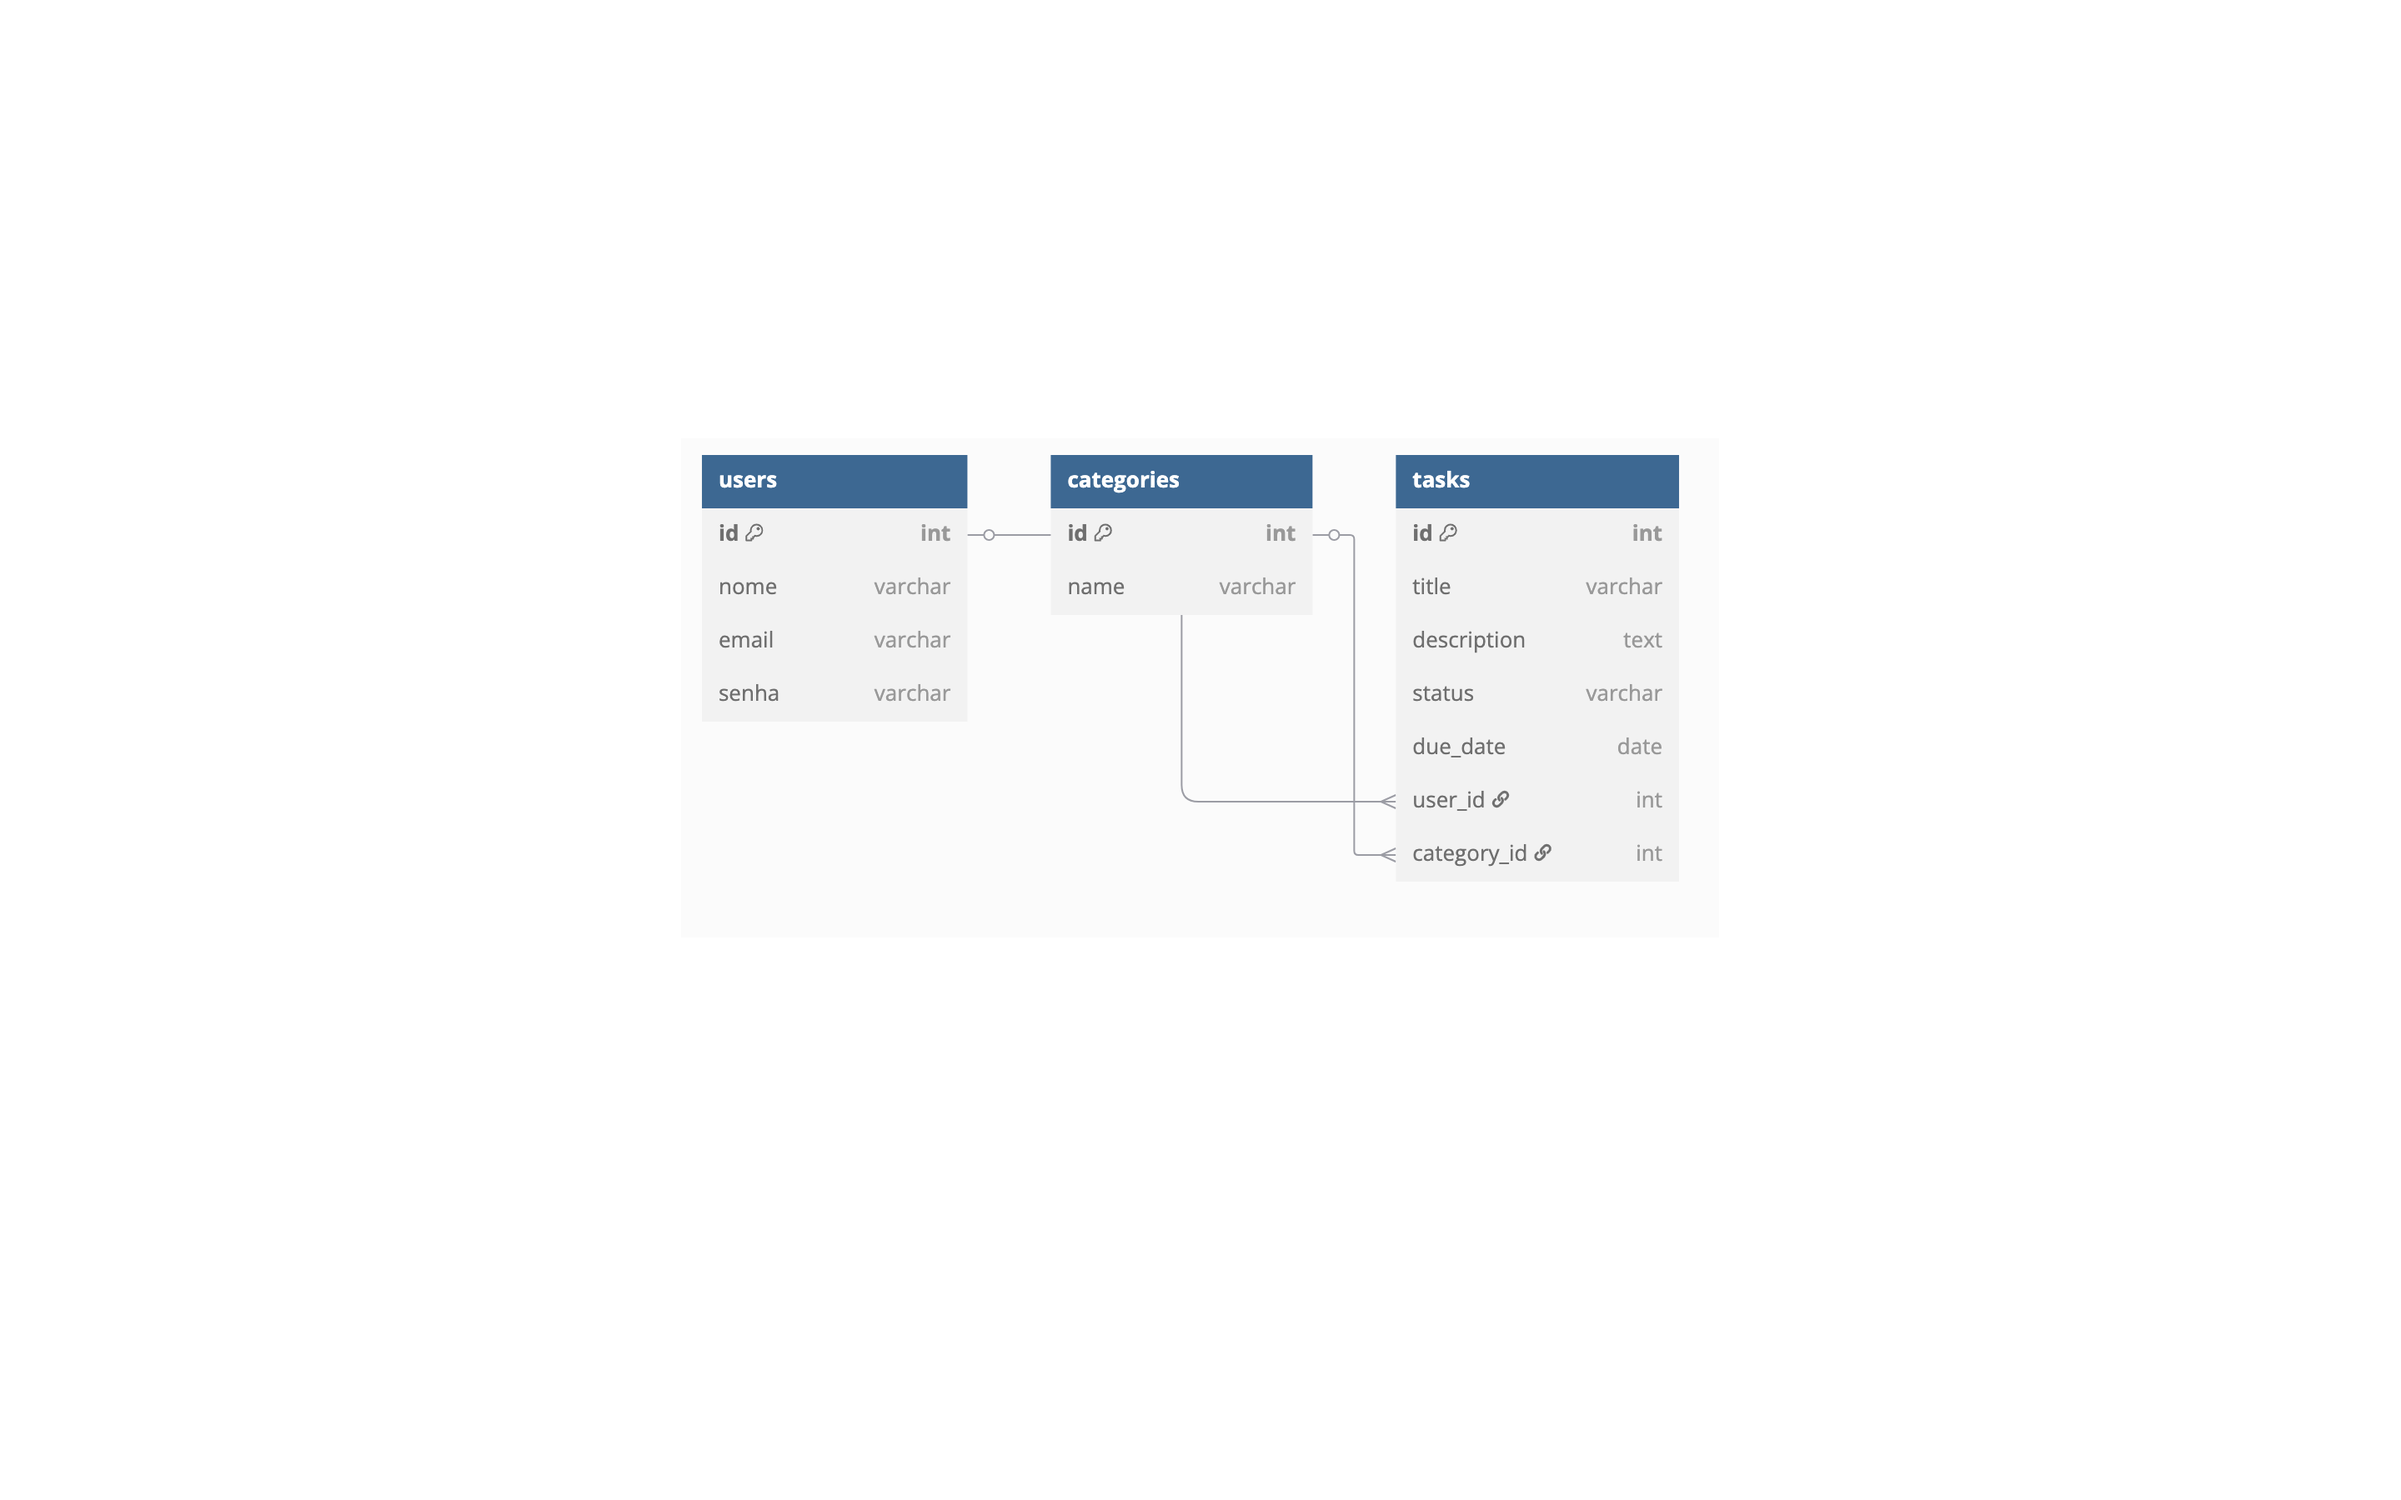
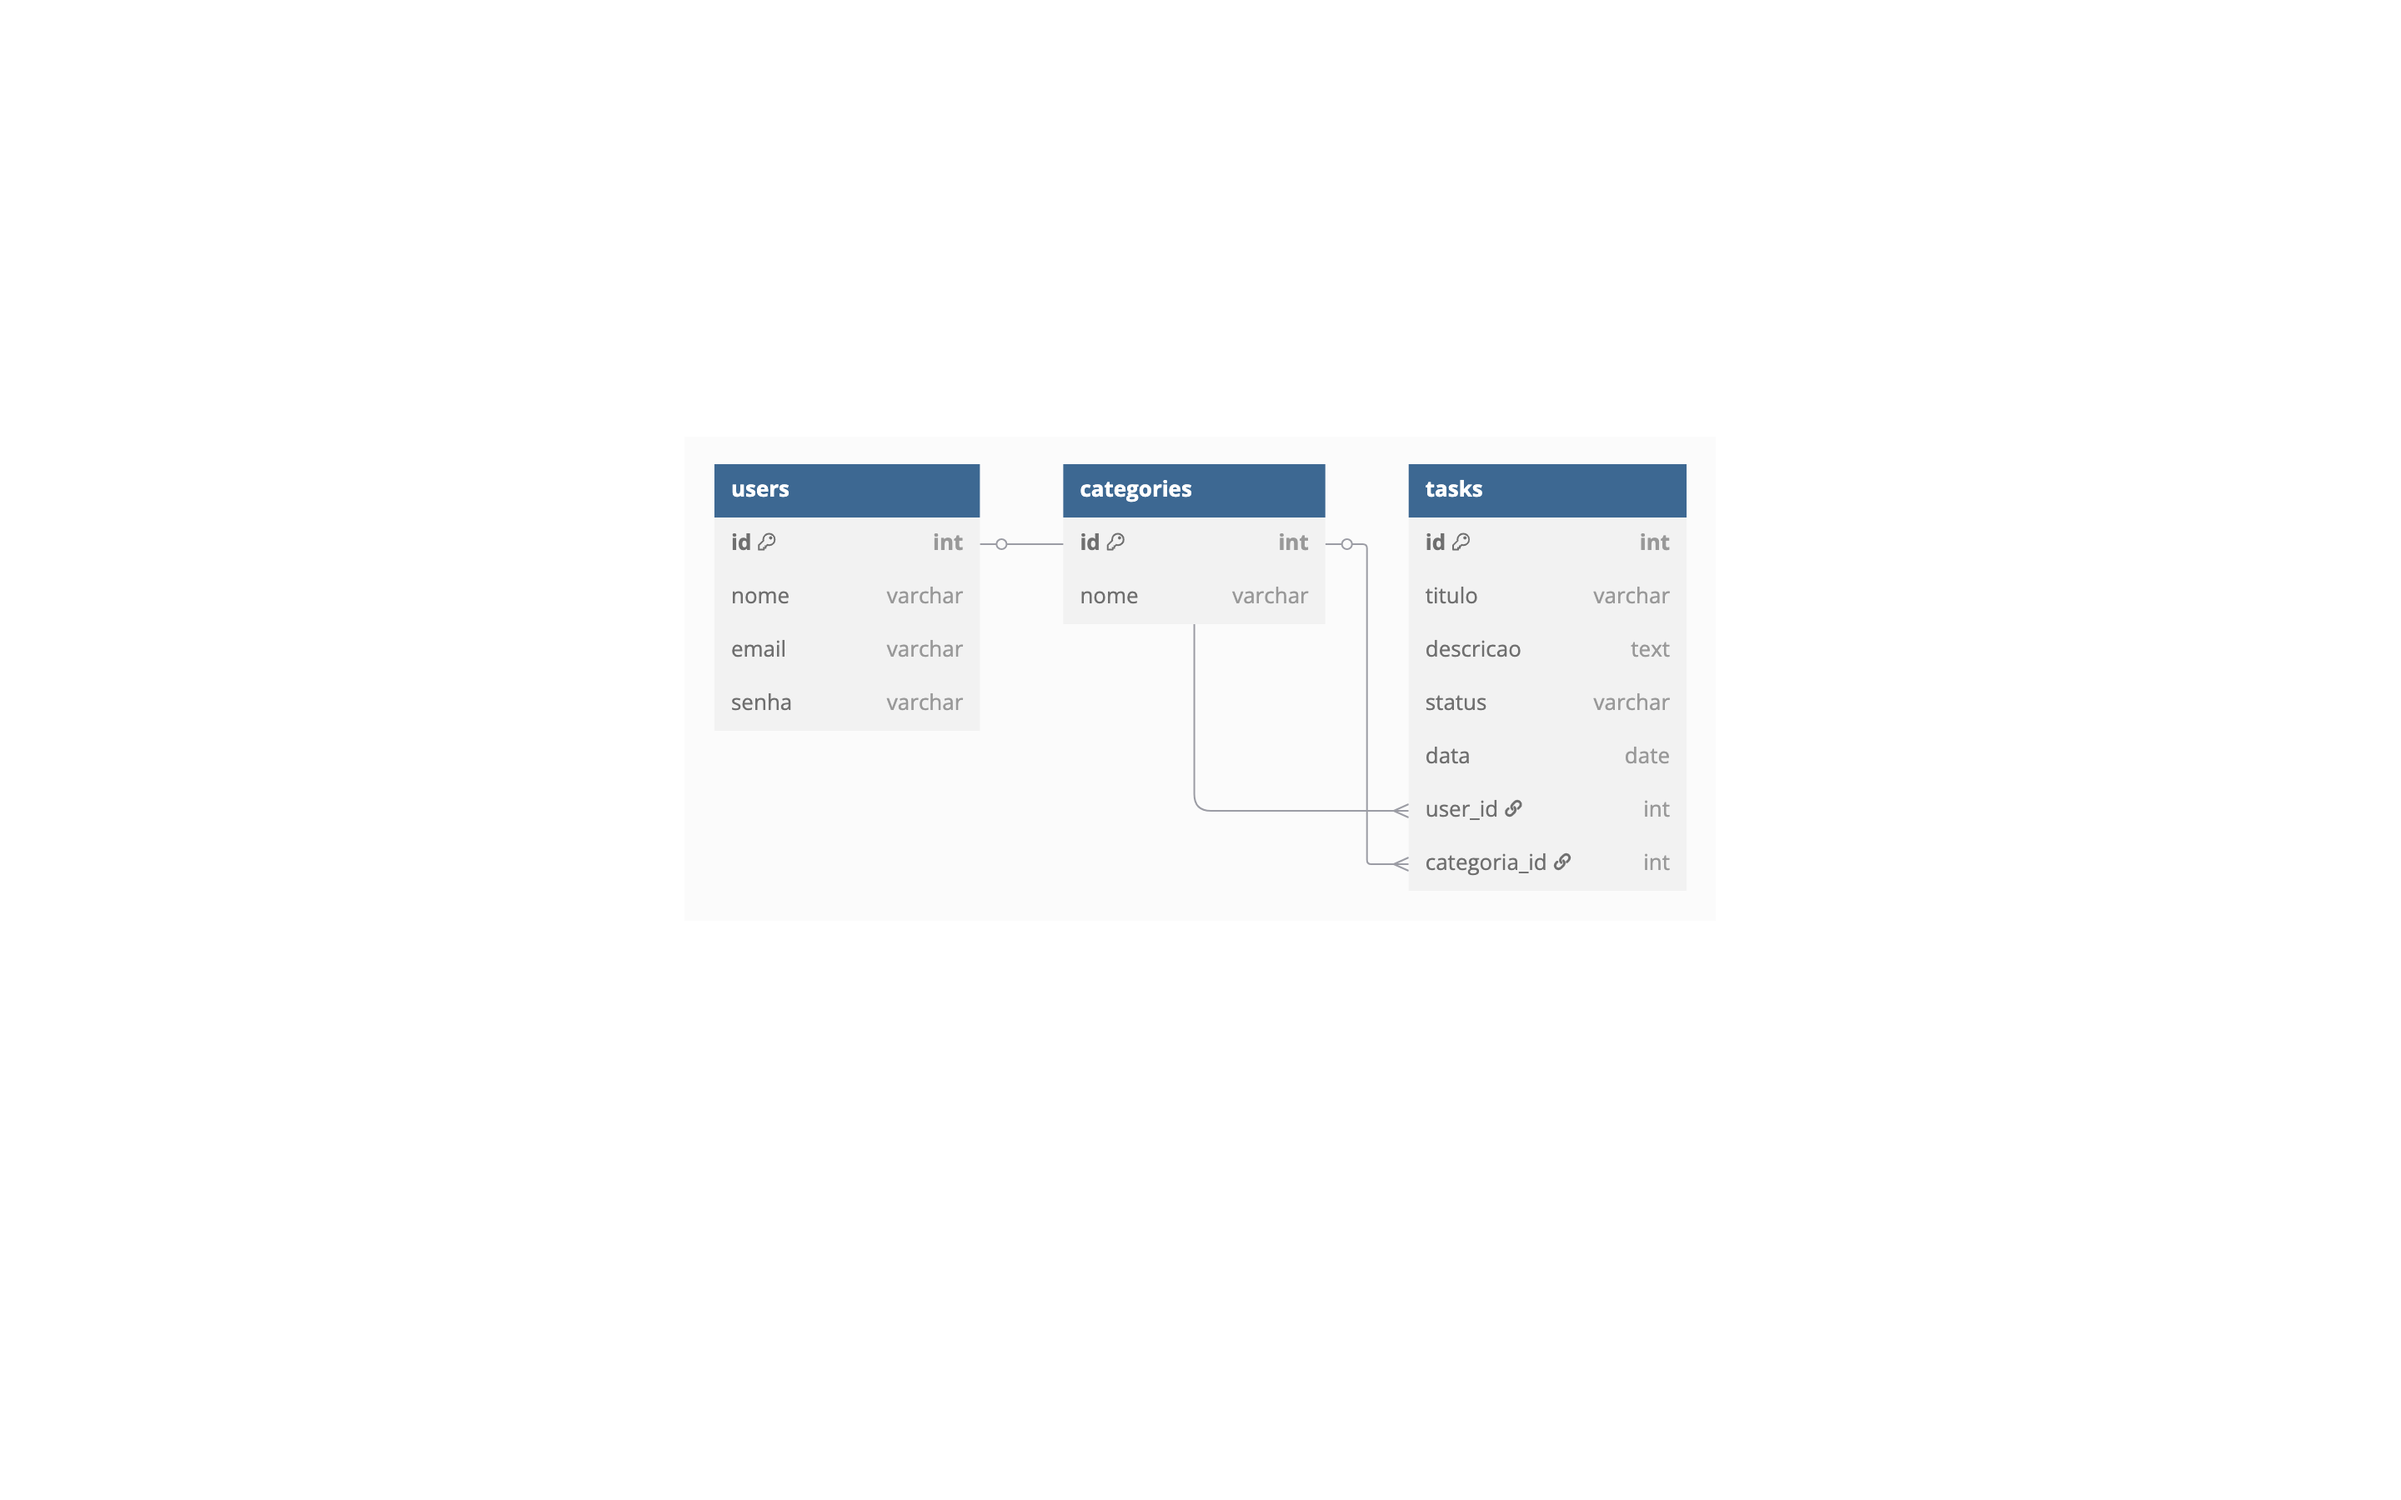
feat: atualizei categorias, tarefas, usuarios de todo o modelo logico

Changed region(s): [[0.4375, 0.28, 0.7188, 0.5911], [0.2812, 0.28, 0.4062, 0.4667], [0.6562, 0.4356, 0.6875, 0.4667]]

diff --git a/src/services/TarefaService.js b/src/services/TarefaService.js
@@ -6,24 +6,59 @@ module.exports = {
     return rows;
   },
 
-  async create({ titulo, descricao, status, user_id, category_id }) {
-    const { rows } = await db.query(
-      `INSERT INTO tasks (titulo, descricao, status, user_id, category_id)
-       VALUES ($1, $2, $3, $4, $5) RETURNING *`,
-      [titulo, descricao, status || "pendente", user_id, category_id]
-    );
+  async getById(id) {
+    const { rows } = await db.query("SELECT * FROM tasks WHERE id = $1", [id]);
     return rows[0];
   },
 
-  async update(id, { titulo, descricao, status }) {
-    const { rows } = await db.query(
-      `UPDATE tasks SET titulo=$1, descricao=$2, status=$3 WHERE id=$4 RETURNING *`,
-      [titulo, descricao, status, id]
-    );
+  async create(data) {
+    const {
+      titulo,
+      descricao,
+      status,
+      data: dataEntrega,
+      user_id,
+      categoria_id,
+    } = data;
+    const query =
+      "INSERT INTO tasks (titulo, descricao, status, data, user_id, categoria_id) VALUES ($1, $2, $3, $4, $5, $6) RETURNING *";
+    const values = [
+      titulo,
+      descricao,
+      status,
+      dataEntrega,
+      user_id,
+      categoria_id,
+    ];
+    const { rows } = await db.query(query, values);
+    return rows[0];
+  },
+
+  async update(id, data) {
+    const {
+      titulo,
+      descricao,
+      status,
+      data: dataEntrega,
+      user_id,
+      categoria_id,
+    } = data;
+    const query =
+      "UPDATE tasks SET titulo = $1, descricao = $2, status = $3, data = $4, user_id = $5, categoria_id = $6 WHERE id = $7 RETURNING *";
+    const values = [
+      titulo,
+      descricao,
+      status,
+      dataEntrega,
+      user_id,
+      categoria_id,
+      id,
+    ];
+    const { rows } = await db.query(query, values);
     return rows[0];
   },
 
   async delete(id) {
-    await db.query("DELETE FROM tasks WHERE id=$1", [id]);
+    await db.query("DELETE FROM tasks WHERE id = $1", [id]);
   },
 };

diff --git a/src/services/CategoriaService.js b/src/services/CategoriaService.js
@@ -1,37 +1,36 @@
-const pool = require("../database");
+// src/services/CategoriaService.js
+const db = require("../database");
 
 module.exports = {
   async getAll() {
-    const result = await pool.query("SELECT * FROM categorias");
+    const result = await db.query("SELECT * FROM categories");
     return result.rows;
   },
 
   async getById(id) {
-    const result = await pool.query("SELECT * FROM categorias WHERE id = $1", [
+    const result = await db.query("SELECT * FROM categories WHERE id = $1", [
       id,
     ]);
     return result.rows[0];
   },
 
-  async create(data) {
-    const { nome } = data;
-    const result = await pool.query(
-      "INSERT INTO categorias (nome) VALUES ($1) RETURNING *",
+  async create({ nome }) {
+    const result = await db.query(
+      "INSERT INTO categories (nome) VALUES ($1) RETURNING *",
       [nome]
     );
     return result.rows[0];
   },
 
-  async update(id, data) {
-    const { nome } = data;
-    const result = await pool.query(
-      "UPDATE categorias SET nome = $1 WHERE id = $2 RETURNING *",
+  async update(id, { nome }) {
+    const result = await db.query(
+      "UPDATE categories SET nome = $1 WHERE id = $2 RETURNING *",
       [nome, id]
     );
     return result.rows[0];
   },
 
   async delete(id) {
-    await pool.query("DELETE FROM categorias WHERE id = $1", [id]);
+    await db.query("DELETE FROM categories WHERE id = $1", [id]);
   },
 };

diff --git a/src/services/UsuarioService.js b/src/services/UsuarioService.js
@@ -2,15 +2,16 @@ const db = require("../database");
 
 module.exports = {
   async getAll() {
-    const { rows } = await db.query("SELECT * FROM users");
-    return rows;
+    const result = await db.query("SELECT * FROM users");
+    return result.rows;
   },
 
-  async create({ nome, email, senha }) {
-    const { rows } = await db.query(
+  async create(data) {
+    const { nome, email, senha } = data;
+    const result = await db.query(
       "INSERT INTO users (nome, email, senha) VALUES ($1, $2, $3) RETURNING *",
       [nome, email, senha]
     );
-    return rows[0];
+    return result.rows[0];
   },
 };

diff --git a/src/controllers/TarefaController.js b/src/controllers/TarefaController.js
@@ -6,6 +6,14 @@ module.exports = {
     res.json(tarefas);
   },
 
+  async show(req, res) {
+    const { id } = req.params;
+    const tarefa = await TarefaService.getById(id);
+    if (!tarefa)
+      return res.status(404).json({ error: "Tarefa não encontrada" });
+    res.json(tarefa);
+  },
+
   async store(req, res) {
     const nova = await TarefaService.create(req.body);
     res.status(201).json(nova);

diff --git a/src/controllers/CategoriaController.js b/src/controllers/CategoriaController.js
@@ -1,3 +1,4 @@
+// src/controllers/CategoriaController.js
 const CategoriaService = require("../services/CategoriaService");
 
 module.exports = {
@@ -15,7 +16,7 @@ module.exports = {
   },
 
   async store(req, res) {
-    const nova = await CategoriaService.create(req.body);
+    const nova = await CategoriaService.create(req.body); // req.body.nome
     res.status(201).json(nova);
   },
 

diff --git a/src/routes/tarefaRoutes.js b/src/routes/tarefaRoutes.js
@@ -3,6 +3,7 @@ const router = express.Router();
 const TarefaController = require("../controllers/TarefaController");
 
 router.get("/", TarefaController.index);
+router.get("/:id", TarefaController.show);
 router.post("/", TarefaController.store);
 router.put("/:id", TarefaController.update);
 router.delete("/:id", TarefaController.delete);

diff --git a/src/controllers/UsuarioController.js b/src/controllers/UsuarioController.js
@@ -2,8 +2,8 @@ const UsuarioService = require("../services/UsuarioService");
 
 module.exports = {
   async index(req, res) {
-    const users = await UsuarioService.getAll();
-    res.json(users);
+    const usuarios = await UsuarioService.getAll();
+    res.json(usuarios);
   },
 
   async store(req, res) {
